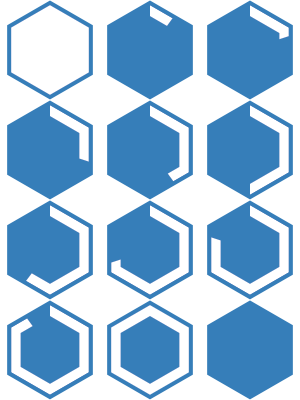
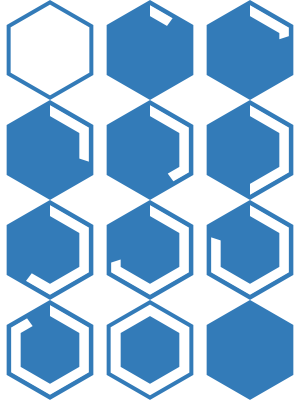
* Better color contrast. Slightly darker blue.  * Minor css tweaks.

diff --git a/build/review-box/style-index.css b/build/review-box/style-index.css
@@ -1,1 +1,1 @@
[2 lines of base64/hex data omitted]

diff --git a/src/review-box/style.scss b/src/review-box/style.scss
@@ -11,10 +11,10 @@
 
 	.text {
 
-		padding: 0.3em 0.5em;
+		padding: 0.5em 0.5em 0.6em;
 		margin-bottom: 1em;
 		color: #fff;
-		background-color: #337eb9;
+		background-color: #337bb8;
 
 		a {
 			color: #fff;
@@ -78,10 +78,6 @@
 					color: #fff;
 				}
 			}
-		}
-
-		.summary {
-			
 		}
 
 		.outof {
@@ -155,13 +151,6 @@
 
 	.shortscore-10 {
 		background-position: -200px -600px;
-	}
-}
-
-.rangeslider {
-
-	.rangeslider__fill {
-		background-color: #337eb9;
 	}
 }
 

diff --git a/game-review.php b/game-review.php
@@ -3,7 +3,7 @@
  * Plugin Name:       Game Review Block	
  * Description:       Add a review rating block with a score from 1 to 10 to your post. Adds schema.org meta data for Rich Results in search engines.
  * Requires PHP:      7.0
- * Version:           3.1
+ * Version:           3.2
  * Author:            Marc Tönsing
  * Author URI: 		  https://marc.tv
  * License:           GPL-2.0-or-later
